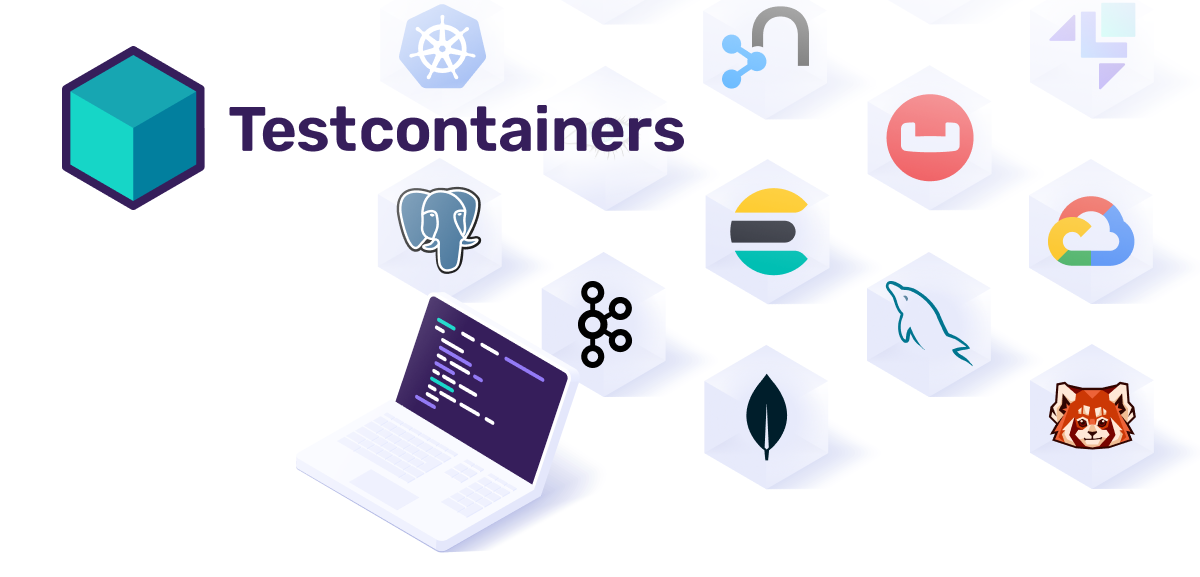
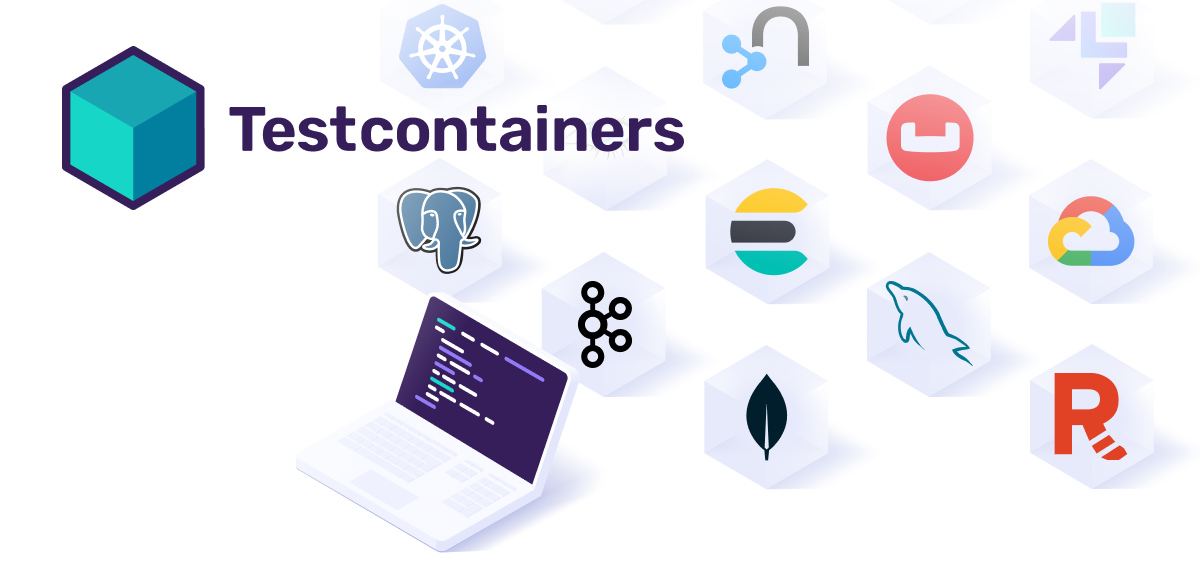
Update official modules description (#63)
* Update official modules description

* Update redpanda logo in share image

Changed region(s): [[0.8633, 0.6239, 0.9558, 0.8111]]

diff --git a/layouts/modules/list.html b/layouts/modules/list.html
@@ -95,7 +95,7 @@
                 <svg class="icon-award" width="24" height="24" viewBox="0 0 30 30">
                   <use href="#icon-award"></use>
                 </svg> About Official Modules</h2>
-              <div>Testcontainers partners with software developers to make testing effortless.</div>
+              <div>AtomicJar partners with software vendors to maintain and certify official modules.</div>
             </div>
         </div>
         <div class="content">

diff --git a/layouts/modules/single.html b/layouts/modules/single.html
@@ -94,7 +94,7 @@
                     <svg class="icon-award" width="24" height="24" viewBox="0 0 30 30">
                       <use href="#icon-award"></use>
                     </svg> Official Modules</h2>
-                  <div>Testcontainers partners with software developers to make testing effortless.</div>
+                  <div>AtomicJar partners with software vendors to maintain and certify official modules.</div>
                 </div>
               {{ end }}
 
